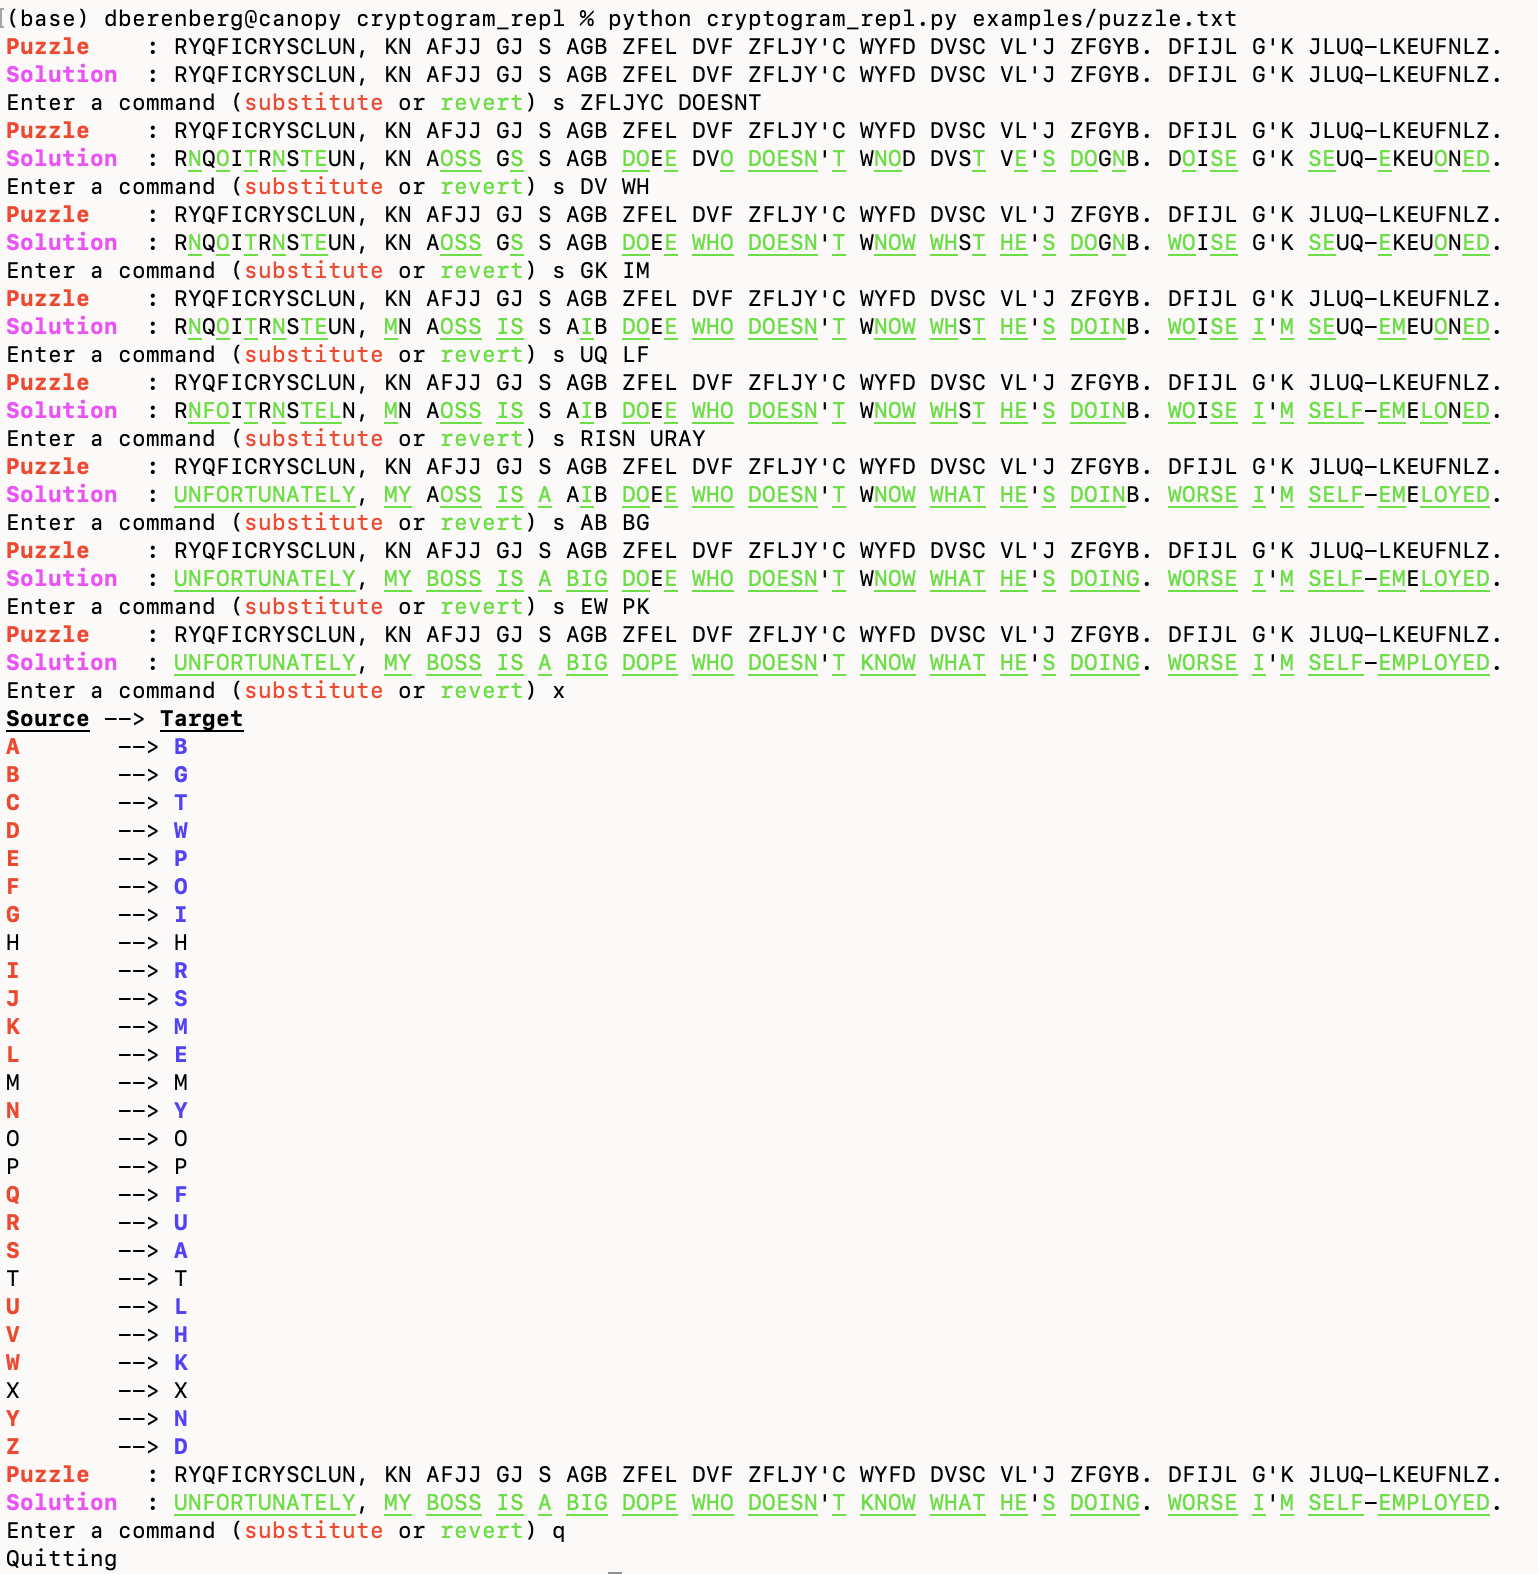
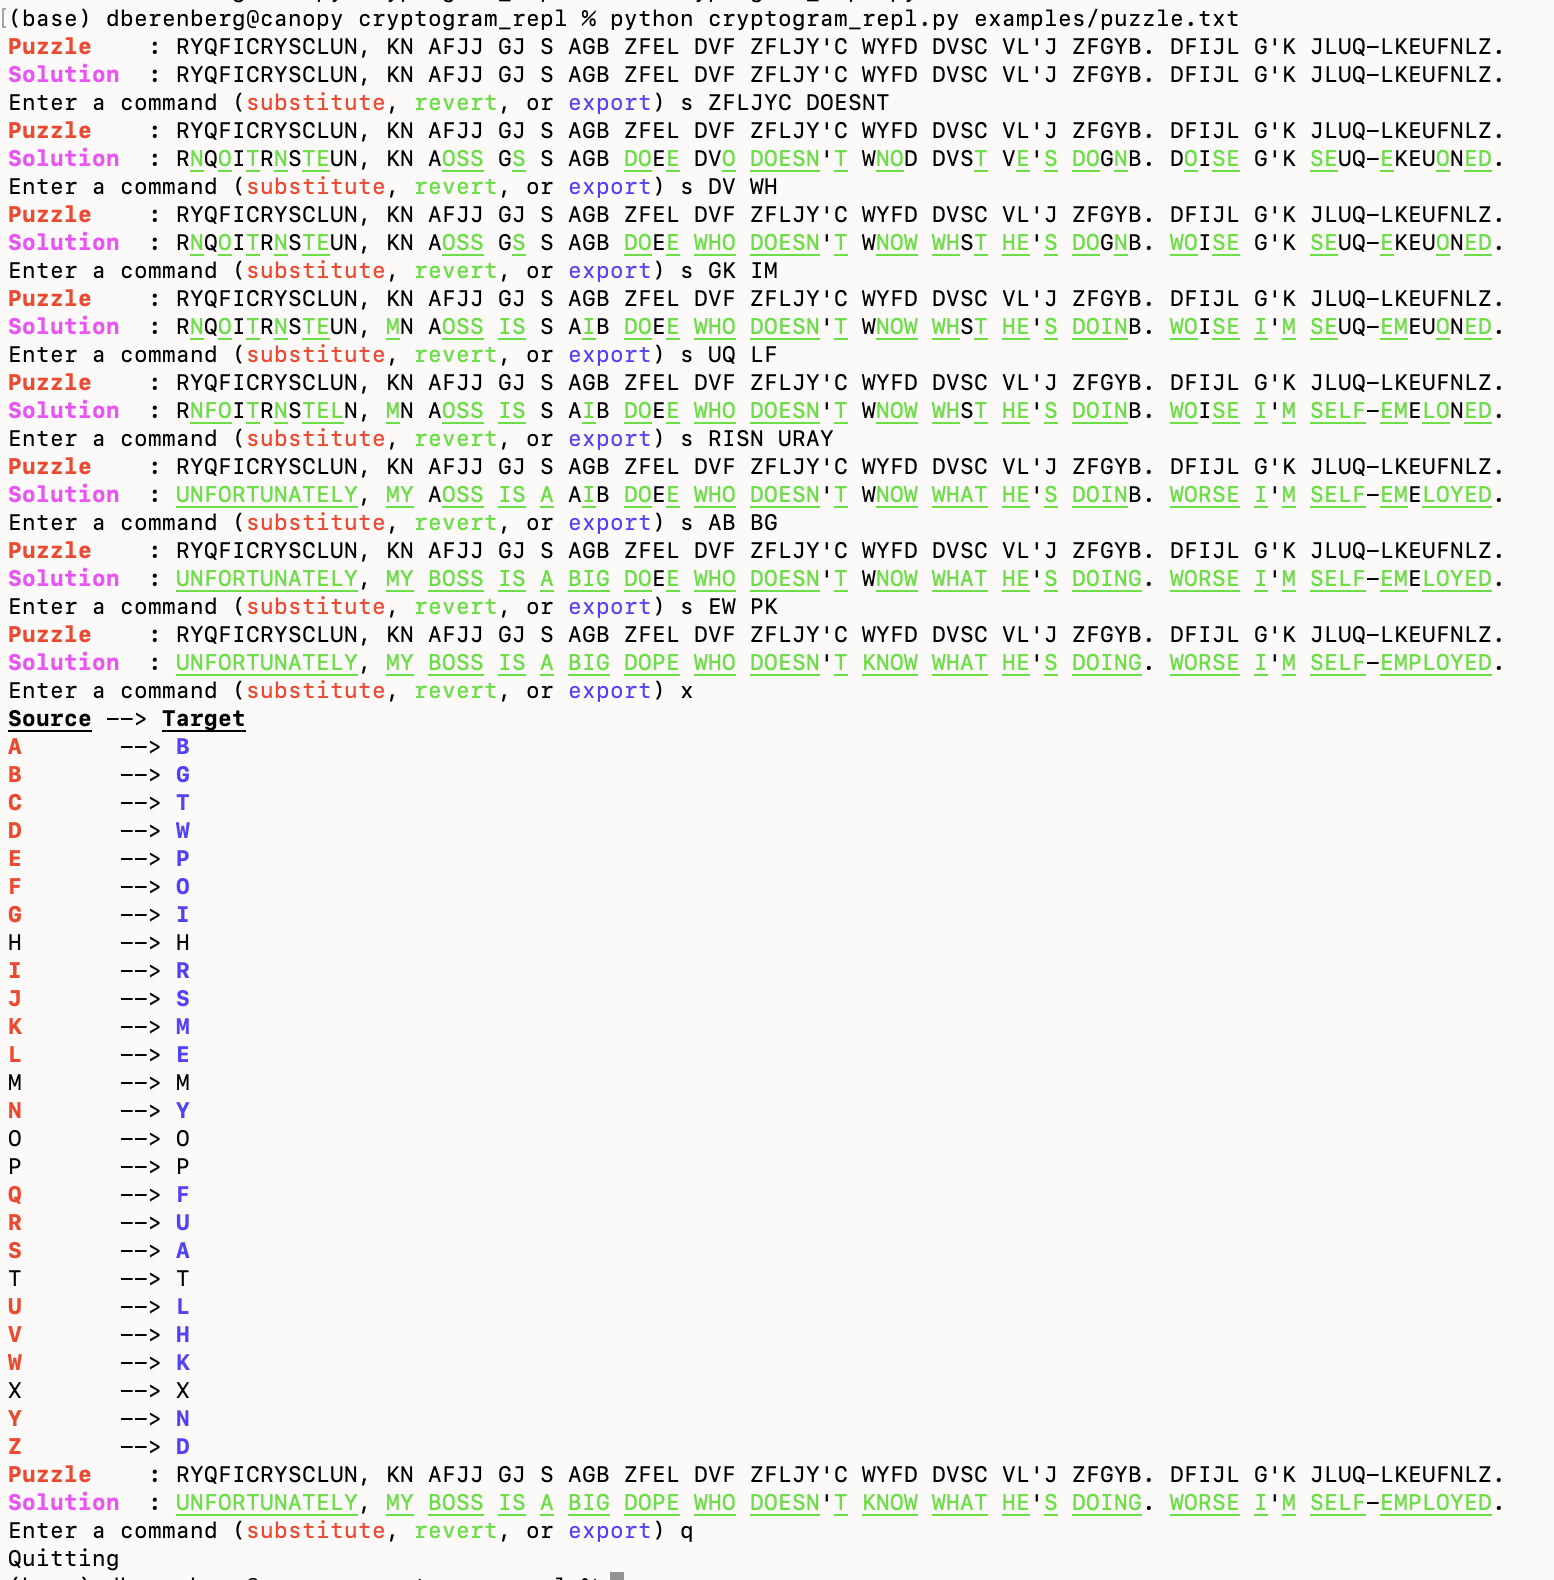
update asset

Changed region(s): [[0.0, 0.0, 0.9675, 1.0]]

diff --git a/cryptogram_repl.py b/cryptogram_repl.py
@@ -35,7 +35,7 @@ class bcolors:
     UNDERLINE = '\033[4m'
 
 
-PROMPT = f"Enter a command ({bcolors.FAIL}substitute{bcolors.ENDC} or {bcolors.OKGREEN}revert{bcolors.ENDC}) "
+PROMPT = f"Enter a command ({bcolors.FAIL}substitute{bcolors.ENDC}, {bcolors.OKGREEN}revert{bcolors.ENDC}, or {bcolors.OKBLUE}export{bcolors.ENDC}) "
 PUZZLE_PRFX = f"{bcolors.FAIL}{bcolors.BOLD}{'Puzzle':<10s}{bcolors.ENDC}"
 SOLN_PRFX = f"{bcolors.HEADER}{bcolors.BOLD}{'Solution':<10s}{bcolors.ENDC}"
 
